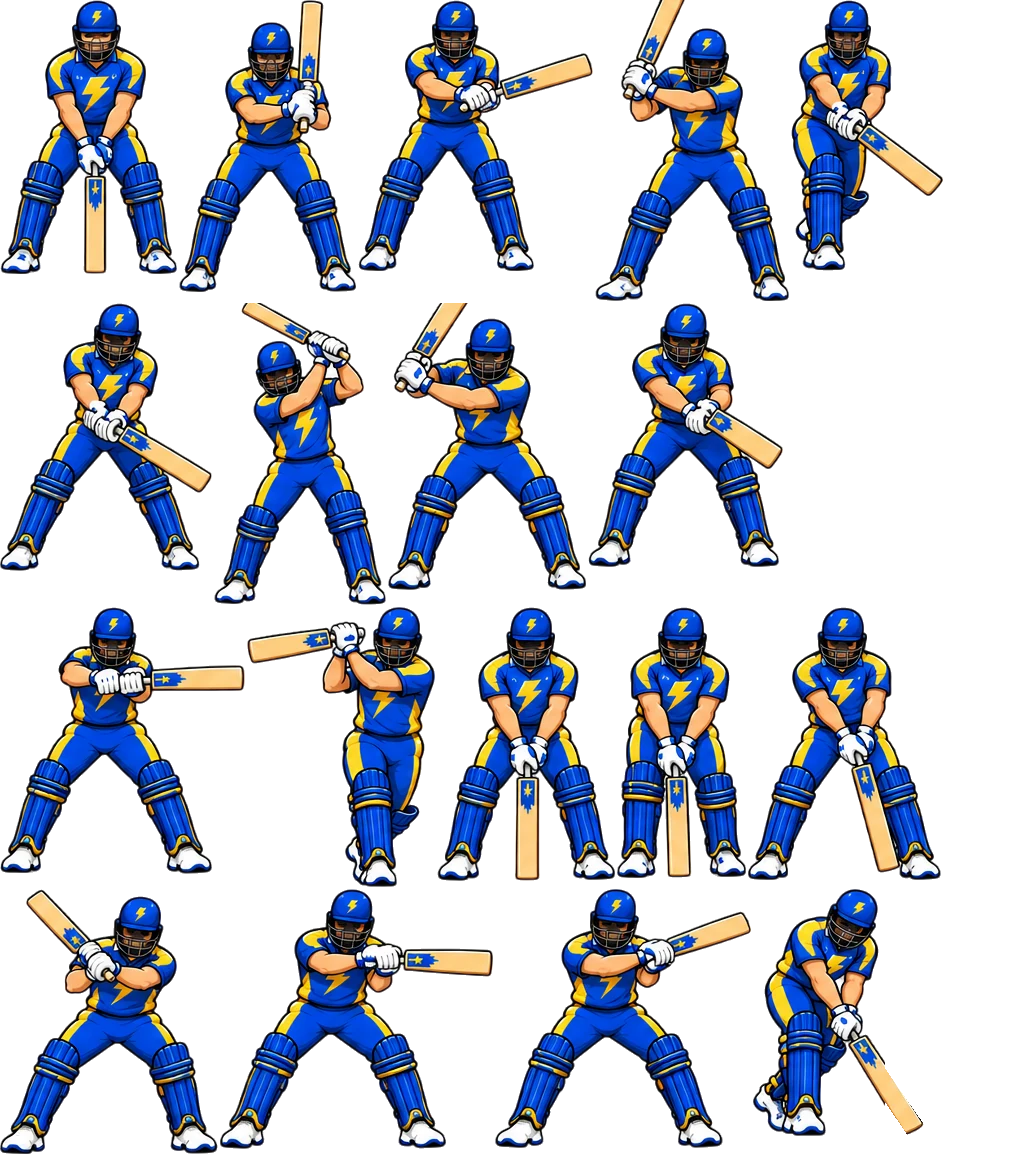
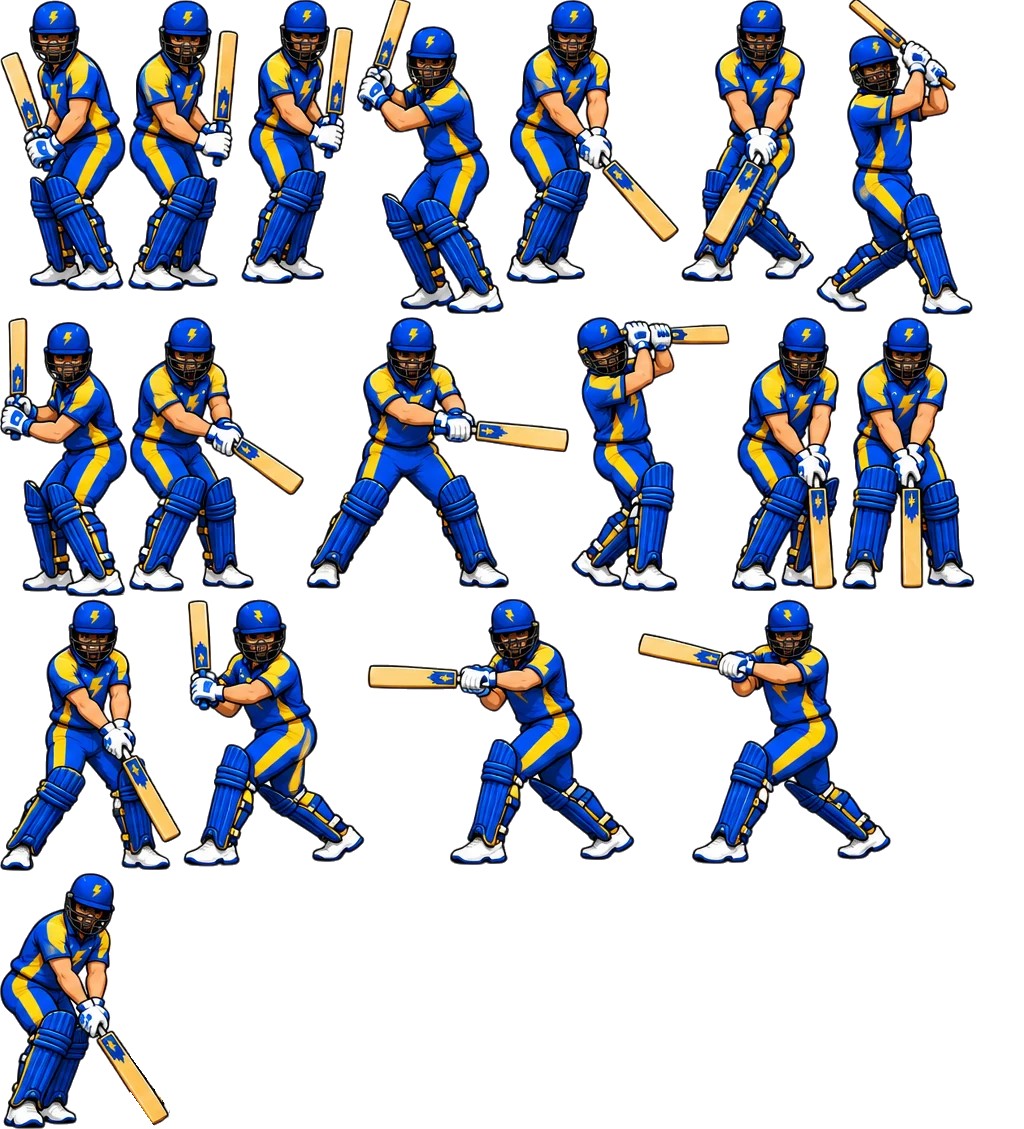
Side-on front-view batter, cut mirrored to a right-hander's
- New front sheet replaces the square-on one
- Poses 15-17 (cut) are drawn the left-hander's way, so they are mirrored
- build_front_batter.py gains --mirror, --blade/--cut-x for pose 18, and --dump

Claude-Session: https://claude.ai/code/session_01NK7tbrKg5PdA6fuyEUPXLd

diff --git a/js/bowlsprite.js b/js/bowlsprite.js
@@ -174,29 +174,29 @@ const BACK = {
 // the opposing batter seen from the bowling camera (tools/build_front_batter.py); same frame
 // names as the back-view batter in batsprite.js, so batFrame() drives both
 const BAT_FRONT = {
-  ready: [0, 0, 177, 274, 92.0, 273, 1.1],
-  leave1: [179, 0, 177, 292, 89.8, 291, 1.1],
-  leave2: [358, 0, 235, 271, 92.2, 270, 1.1],
-  backlift: [595, 0, 194, 301, 103.8, 300, 1.1],
-  drive1: [791, 0, 152, 271, 44.8, 270, 1.1],
-  drive2: [0, 303, 212, 268, 109.0, 267, 1.1],
-  drive3: [214, 303, 172, 302, 74.0, 301, 1.1],
-  pull0: [388, 303, 198, 287, 100.5, 286, 1.1],
-  pull1: [588, 303, 195, 264, 96.2, 263, 1.1],
-  pull2: [0, 607, 245, 267, 109.0, 266, 1.1],
-  pull3: [247, 607, 188, 280, 139.2, 279, 1.053],
-  def1: [437, 607, 178, 274, 91.0, 273, 1.1],
-  def2: [617, 607, 129, 271, 64.8, 270, 1.1],
-  def3: [748, 607, 193, 273, 95.2, 272, 1.1],
-  cut1: [0, 889, 218, 265, 124.0, 264, 1.1],
-  cut2: [220, 889, 273, 260, 121.5, 259, 1.1],
-  cut3: [495, 889, 256, 259, 116.5, 258, 1.1],
-  bowled: [753, 889, 171, 247, 97.5, 246, 1.1],
+  ready: [0, 0, 126, 291, 65.0, 290, 1.081],
+  leave1: [128, 0, 111, 291, 50.5, 290, 1.026],
+  leave2: [241, 0, 113, 284, 52.5, 283, 1.053],
+  backlift: [356, 0, 148, 314, 85.5, 313, 1.0],
+  drive1: [506, 0, 173, 284, 52.5, 283, 1.026],
+  drive2: [681, 0, 133, 282, 71.0, 281, 1.026],
+  drive3: [816, 0, 157, 315, 69.2, 314, 0.909],
+  pull0: [0, 317, 127, 280, 70.5, 279, 1.026],
+  pull1: [129, 317, 175, 275, 61.2, 274, 1.053],
+  pull2: [306, 317, 263, 272, 103.2, 271, 1.053],
+  pull3: [571, 317, 159, 275, 45.2, 274, 0.9],
+  def1: [732, 317, 108, 274, 61.8, 273, 1.081],
+  def2: [842, 317, 133, 273, 65.8, 272, 1.1],
+  def3: [0, 599, 181, 272, 89.0, 271, 1.026],
+  cut1: [183, 599, 182, 268, 79.8, 267, 1.0],
+  cut2: [367, 599, 268, 266, 158.2, 265, 1.026],
+  cut3: [637, 599, 254, 265, 151.0, 264, 1.053],
+  bowled: [0, 873, 170, 256, 88.5, 255, 1.1],
 };
 const VIEWS = {
   front: { src: 'img/bowler.webp', frames: FRONT, refPx: 323 },
   // the ready stance is 1.72 m tall, as for the back-view batter
-  batfront: { src: 'img/batter-front.webp', frames: BAT_FRONT, refPx: Math.round(274 * 1.1 * 1.85 / 1.72) },
+  batfront: { src: 'img/batter-front.webp', frames: BAT_FRONT, refPx: Math.round(291 * 1.081 * 1.85 / 1.72) },
 };
 for (const [id, frames] of Object.entries(BACK)) {
   VIEWS['back-' + id] = { src: `img/bowler-back-${id}.webp`, frames, refPx: frames.start[5], own: true };

diff --git a/tools/build_front_batter.py b/tools/build_front_batter.py
@@ -1,6 +1,11 @@
 """Cut the labelled front-view batting sheet (19 poses, transparent background) into an atlas.
 
-usage: python3 tools/build_front_batter.py SHEET.png img/batter-front.webp
+usage: python3 tools/build_front_batter.py SHEET.png img/batter-front.webp [--mirror 15,16,17] [--blade x,y;x,y;... --cut-x N] [--dump DIR]
+
+--mirror flips the listed poses (the cut is often drawn the left-hander's way round).
+--blade gives the bat blade outline in pose 18's frame, kept when its stumps (everything
+from x = --cut-x rightwards) are erased.
+--dump writes each cut pose as a PNG for checking.
 
 Pose 18 (bowled) has stumps drawn in: they are erased, keeping the bat blade that crosses
 them. Pose 19 is the opposing keeper, not a batting pose, and is left out.
@@ -14,13 +19,21 @@ from scipy import ndimage
 USE = {1: 'ready', 2: 'leave1', 3: 'leave2', 4: 'backlift', 5: 'drive1', 6: 'drive2', 7: 'drive3',
        8: 'pull0', 9: 'pull1', 10: 'pull2', 11: 'pull3', 12: 'def1', 13: 'def2', 14: 'def3',
        15: 'cut1', 16: 'cut2', 17: 'cut3', 18: 'bowled'}
-BANDS = [(0, 40), (355, 395), (695, 735)]
-# pose 18 (frame coords): erase everything right of x=134 except the bat blade
+# label rows; these cover both sheets drawn so far
+BANDS = [(0, 40), (355, 396), (690, 735)]
+# pose 18 (frame coords) for the first sheet: everything right of the batter's pad is erased except the bat blade
 BLADE = [(93, 154), (109, 146), (172, 237), (170, 244), (156, 247)]
+
+
+def opt(name, default=None):
+    return sys.argv[sys.argv.index(name) + 1] if name in sys.argv else default
 
 
 def main():
     src, out = sys.argv[1:3]
+    mirror = {int(k) for k in opt('--mirror', '').split(',') if k}
+    blade = [tuple(int(v) for v in p.split(',')) for p in opt('--blade').split(';')] if opt('--blade') else BLADE
+    dump = opt('--dump')
     a = np.array(Image.open(src).convert('RGBA'))
     al = a[..., 3] > 40
     dark = al & (a[..., :3].astype(int).max(-1) < 80)
@@ -43,13 +56,18 @@ def main():
         m = (lab[y0:y1, x0:x1] == li) & mask[y0:y1, x0:x1]
         c = a[y0:y1, x0:x1].copy()
         c[..., 3] = np.where(m, c[..., 3], 0)
+        if dump:
+            Image.fromarray(c).save(f'{dump}/f{k:02d}.png')
         if k == 18:
             keep = Image.new('L', (x1 - x0, y1 - y0), 0)
-            ImageDraw.Draw(keep).polygon(BLADE, fill=255)
+            ImageDraw.Draw(keep).polygon(blade, fill=255)
             xs = np.arange(x1 - x0)[None, :]
-            c[..., 3] = np.where((xs >= 134) & ~(np.array(keep) > 0), 0, c[..., 3])
+            cut_x = int(opt('--cut-x', 134))
+            c[..., 3] = np.where((xs >= cut_x) & ~(np.array(keep) > 0), 0, c[..., 3])
         im = Image.fromarray(c)
         im = im.crop(im.getbbox())
+        if k in mirror:
+            im = im.transpose(Image.FLIP_LEFT_RIGHT)
         arr = np.array(im).astype(int)
         alp = arr[..., 3] > 40
         r, g, b = arr[..., 0], arr[..., 1], arr[..., 2]
